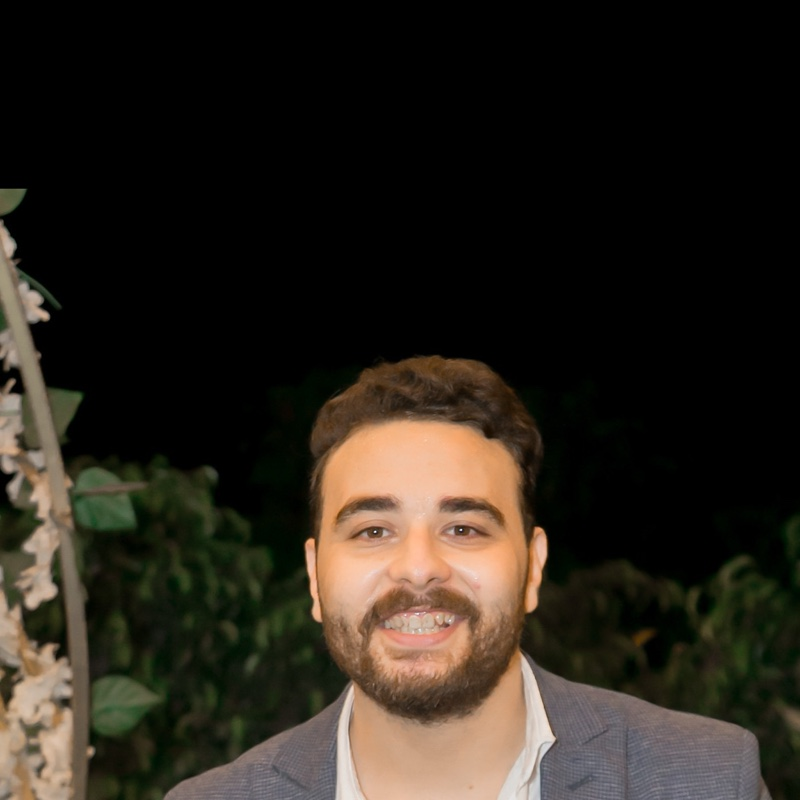
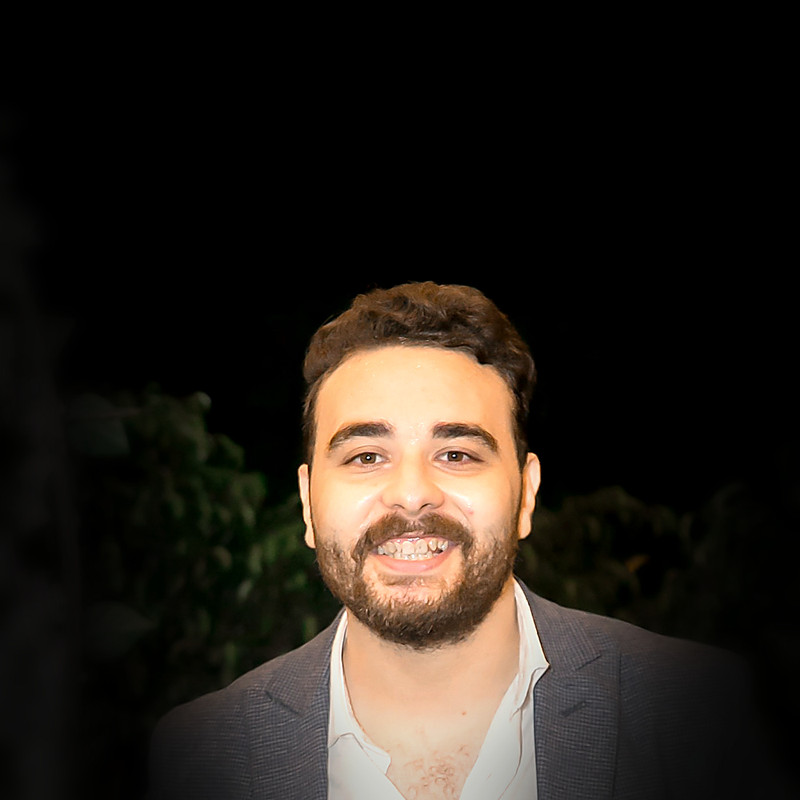
Retouch portrait and close recruiter-facing gaps
Portrait
- Reframed from the 2736px original and treated: tone and warmth correction,
  then an elliptical falloff centred on the face so the floral arch and the
  table clutter drop to near-black. It reads as a portrait rather than an event
  photo, and it now sits in the dark palette instead of fighting it. A real
  headshot is still the better answer; this is the most the source allows.

Reviewed the page the way someone screening candidates would, and fixed what
that turned up:

- On a phone there was no route to GitHub or LinkedIn at all. The side rails are
  d-none d-md-block, so the only visible link below 768px was a mailto. Added a
  links row to the contact section: GitHub, LinkedIn, resume, email.
- Section numbering read 01, 02, 03, 05 — the 04 component is commented out.
- Two nested <main> elements, from adding the landmark while home.component.html
  already had one.
- The hero answered neither "what roles" nor "where". Both now sit under the
  intro instead of 7,000px down in the contact section.
- Seven of eight case studies had no link and no explanation, which reads as an
  omission. They are labelled as private enterprise repositories.
- The project archive existed at /projects but nothing linked to it. The work
  section now ends with a link, language-prefixed so /ar stays in Arabic.
  RouterModule was missing from HomeModule, so routerLink rendered no href.

diff --git a/src/app/components/home/contact/contact.component.html b/src/app/components/home/contact/contact.component.html
@@ -2,7 +2,7 @@
     <div class="container">
         <div class="section-box">
             <div class="mb-4" data-aos="fade-up" data-aos-duration="1000">
-                <h3 class="contact-pre-title big-subtitle">05. {{"Contact.Pretitle" | translate}}</h3>
+                <h3 class="contact-pre-title big-subtitle">04. {{"Contact.Pretitle" | translate}}</h3>
                 <h4 class="e-font contact-title big-title">
                     {{"Contact.Title" | translate}}
                 </h4>
@@ -15,6 +15,35 @@
                     {{"Contact.Btn" | translate}}
                 </a>
             </div>
+
+            <!-- The side rails are desktop-only, so without this row GitHub and
+                 LinkedIn are unreachable on a phone. -->
+            <ul class="contact-links" data-aos="fade-up" data-aos-duration="1000">
+                <li>
+                    <a (click)='analyticsService.sendAnalyticEvent("click_github", "contact", "github")'
+                       href="https://github.com/mobasherahmed" target="_blank" rel="noopener noreferrer">
+                        <i class="fab fa-github" aria-hidden="true"></i> GitHub
+                    </a>
+                </li>
+                <li>
+                    <a (click)='analyticsService.sendAnalyticEvent("click_linkedin", "contact", "linkedin")'
+                       href="https://www.linkedin.com/in/ahmed-mobasher-10/" target="_blank" rel="noopener noreferrer">
+                        <i class="fab fa-linkedin-in" aria-hidden="true"></i> LinkedIn
+                    </a>
+                </li>
+                <li>
+                    <a (click)='analyticsService.sendAnalyticEvent("click_download_cv", "contact", "cv")'
+                       [href]="cvPath" [attr.download]="cvFileName">
+                        <i class="fas fa-file-arrow-down" aria-hidden="true"></i> {{"Header.cvBtn" | translate}}
+                    </a>
+                </li>
+                <li>
+                    <a (click)='analyticsService.sendAnalyticEvent("click_send_mail", "contact", "email")'
+                       href="mailto:ahmedmobasher00@gmail.com">
+                        <i class="fas fa-envelope" aria-hidden="true"></i> ahmedmobasher00&#64;gmail.com
+                    </a>
+                </li>
+            </ul>
         </div>
     </div>
 </section>

diff --git a/src/app/components/home/proyects/proyects.component.scss b/src/app/components/home/proyects/proyects.component.scss
@@ -413,3 +413,39 @@
   .case-study__tech,
   .case-study__links { justify-content: flex-start; }
 }
+
+/* Most of this work sits on private repositories. Saying so turns an absent
+   link into a stated fact rather than a gap the reader has to interpret. */
+.case-study__private {
+  font-family: var(--font-mono, "SF Mono", monospace);
+  font-size: 0.75rem;
+  letter-spacing: 0.04em;
+  color: #5c6a89;
+  margin: 0;
+
+  span { color: #64ffda; margin-inline-end: 0.3rem; }
+}
+
+.case-study__archive {
+  display: inline-flex;
+  align-items: center;
+  gap: 0.5rem;
+  margin-top: 1rem;
+  padding: 0.85rem 1.6rem;
+  border: 1px solid #64ffda;
+  border-radius: 4px;
+  color: #64ffda;
+  font-family: var(--font-mono, "SF Mono", monospace);
+  font-size: 0.85rem;
+  text-decoration: none;
+  transition: background-color 0.2s ease;
+
+  &:hover,
+  &:focus-visible {
+    background-color: rgba(100, 255, 218, 0.08);
+    color: #64ffda;
+    text-decoration: none;
+  }
+}
+
+[dir="rtl"] .case-study__archive span { transform: scaleX(-1); }

diff --git a/src/app/components/home/proyects/proyects.component.html b/src/app/components/home/proyects/proyects.component.html
@@ -48,6 +48,10 @@
                         </li>
                     </ul>
 
+                    <p class="case-study__private" *ngIf="!project.ghLink && !project.demoLink">
+                        <span aria-hidden="true">⌁</span> {{"FeatureProjects.Private" | translate}}
+                    </p>
+
                     <div class="case-study__links" *ngIf="project.ghLink || project.demoLink">
                         <a *ngIf="project.ghLink" [href]="project.ghLink" target="_blank" rel="noopener noreferrer"
                            [attr.aria-label]="project.Title + ' — source code on GitHub'">
@@ -60,6 +64,10 @@
                     </div>
                 </div>
             </article>
+
+            <a class="case-study__archive" [routerLink]="archiveLink" data-aos="fade-up">
+                {{"FeatureProjects.ArchiveLink" | translate}} <span aria-hidden="true">→</span>
+            </a>
         </div>
     </div>
 </section>

diff --git a/src/app/components/home/contact/contact.component.scss b/src/app/components/home/contact/contact.component.scss
@@ -76,3 +76,36 @@
         }
     }
 }
+.contact-links {
+  display: flex;
+  flex-wrap: wrap;
+  justify-content: center;
+  gap: 0.75rem 2rem;
+  list-style: none;
+  padding: 0;
+  margin: 3rem auto 0;
+
+  a {
+    display: inline-flex;
+    align-items: center;
+    gap: 0.5rem;
+    font-family: $CodeFont;
+    font-size: 0.85rem;
+    color: $Slate;
+    text-decoration: none;
+    transition: color 0.2s ease;
+
+    i { color: $Green; font-size: 0.95rem; }
+
+    &:hover,
+    &:focus-visible { color: $Green; text-decoration: none; }
+  }
+}
+
+@media (max-width: 480px) {
+  .contact-links {
+    flex-direction: column;
+    align-items: center;
+    gap: 1rem;
+  }
+}

diff --git a/src/app/components/home/banner/banner.component.scss b/src/app/components/home/banner/banner.component.scss
@@ -85,3 +85,27 @@
     h1 { margin-bottom: 14px; }
   }
 }
+
+/* A recruiter's first two questions are "what roles" and "where" — answering
+   them in the hero saves them scrolling 7,000px to the contact section. */
+.banner-availability {
+  display: flex;
+  align-items: flex-start;
+  gap: 0.55rem;
+  margin-top: 1.5rem;
+  max-width: 560px;
+  font-family: $CodeFont;
+  font-size: 0.82rem;
+  line-height: 1.6;
+  color: $LightSlate;
+
+  &__dot {
+    flex: none;
+    width: 8px;
+    height: 8px;
+    margin-top: 0.45rem;
+    border-radius: 50%;
+    background: $Green;
+    box-shadow: 0 0 0 3px rgba(100, 255, 218, 0.15);
+  }
+}

diff --git a/src/app/components/home/contact/contact.component.ts b/src/app/components/home/contact/contact.component.ts
@@ -1,5 +1,6 @@
 import { Component, OnInit } from '@angular/core';
 import { AnalyticsService } from 'src/app/services/analytics/analytics.service';
+import { CV_FILE_NAME, CV_PATH } from 'src/app/services/cv.constants';
 
 @Component({
   selector: 'app-contact',
@@ -7,6 +8,10 @@ import { AnalyticsService } from 'src/app/services/analytics/analytics.service';
   styleUrls: ['./contact.component.scss']
 })
 export class ContactComponent implements OnInit {
+
+  readonly cvPath = CV_PATH;
+  readonly cvFileName = CV_FILE_NAME;
+
 
   constructor(
     public analyticsService: AnalyticsService

diff --git a/src/app/components/home/home.module.ts b/src/app/components/home/home.module.ts
@@ -1,5 +1,6 @@
 import { NgModule } from '@angular/core';
 import { CommonModule } from '@angular/common';
+import { RouterModule } from '@angular/router';
 import { HomeComponent } from './home.component';
 import { TranslateLoader, TranslateModule } from '@ngx-translate/core';
 import { HttpClient } from '@angular/common/http';
@@ -31,6 +32,7 @@ export function HttpLoaderFactory(http: HttpClient){
   ],
   imports: [
     CommonModule,
+    RouterModule,
     NgbNavModule,
     CarouselModule,
     TranslateModule.forChild({

diff --git a/src/app/components/home/proyects/proyects.component.ts b/src/app/components/home/proyects/proyects.component.ts
@@ -21,11 +21,16 @@ export class ProyectsComponent implements OnInit, OnDestroy {
    */
   carouselEnabled = true;
 
+  /** Keeps the archive link inside the active language prefix (/en, /ar). */
+  get archiveLink(): string[] {
+    return ['/', this.languageService.language, 'projects'];
+  }
+
   private langSub?: Subscription;
 
   constructor(
     public analyticsService: AnalyticsService,
-    private languageService: LanguageService,
+    public languageService: LanguageService,
   ) { }
 
   ngOnInit(): void {

diff --git a/src/app/components/home/banner/banner.component.html b/src/app/components/home/banner/banner.component.html
@@ -9,6 +9,10 @@
                 </div>
                 <div class='banner-description'>
                     <p [innerHTML]='"Banner.Description" | translate' class="mt-4"></p>
+                    <p class="banner-availability">
+                        <span class="banner-availability__dot" aria-hidden="true"></span>
+                        {{"Banner.Availability" | translate}}
+                    </p>
                 </div>
             </div>
             <div class="div-btn-banner">

diff --git a/src/app/components/home/home.component.html b/src/app/components/home/home.component.html
@@ -1,9 +1,9 @@
-<main>
+<div class="home">
     <app-banner></app-banner>
     <app-about></app-about>
     <app-jobs></app-jobs>
     <app-proyects></app-proyects>
     <!-- <app-more-proyects></app-more-proyects> -->
     <app-contact></app-contact>
-</main>
+</div>
 
